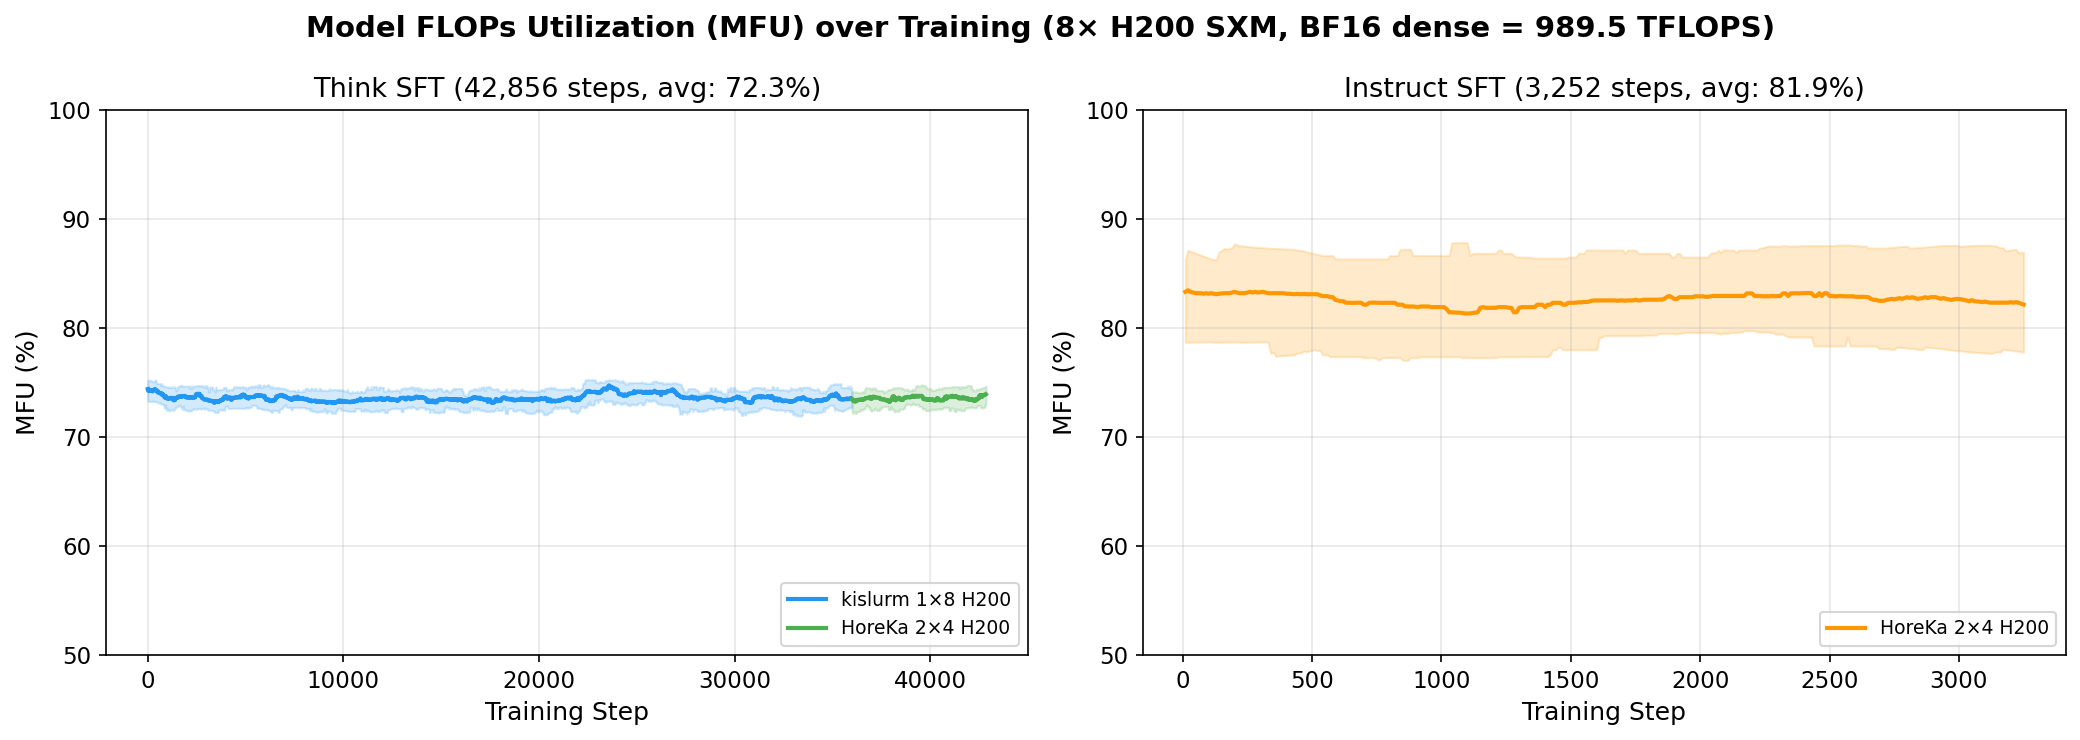
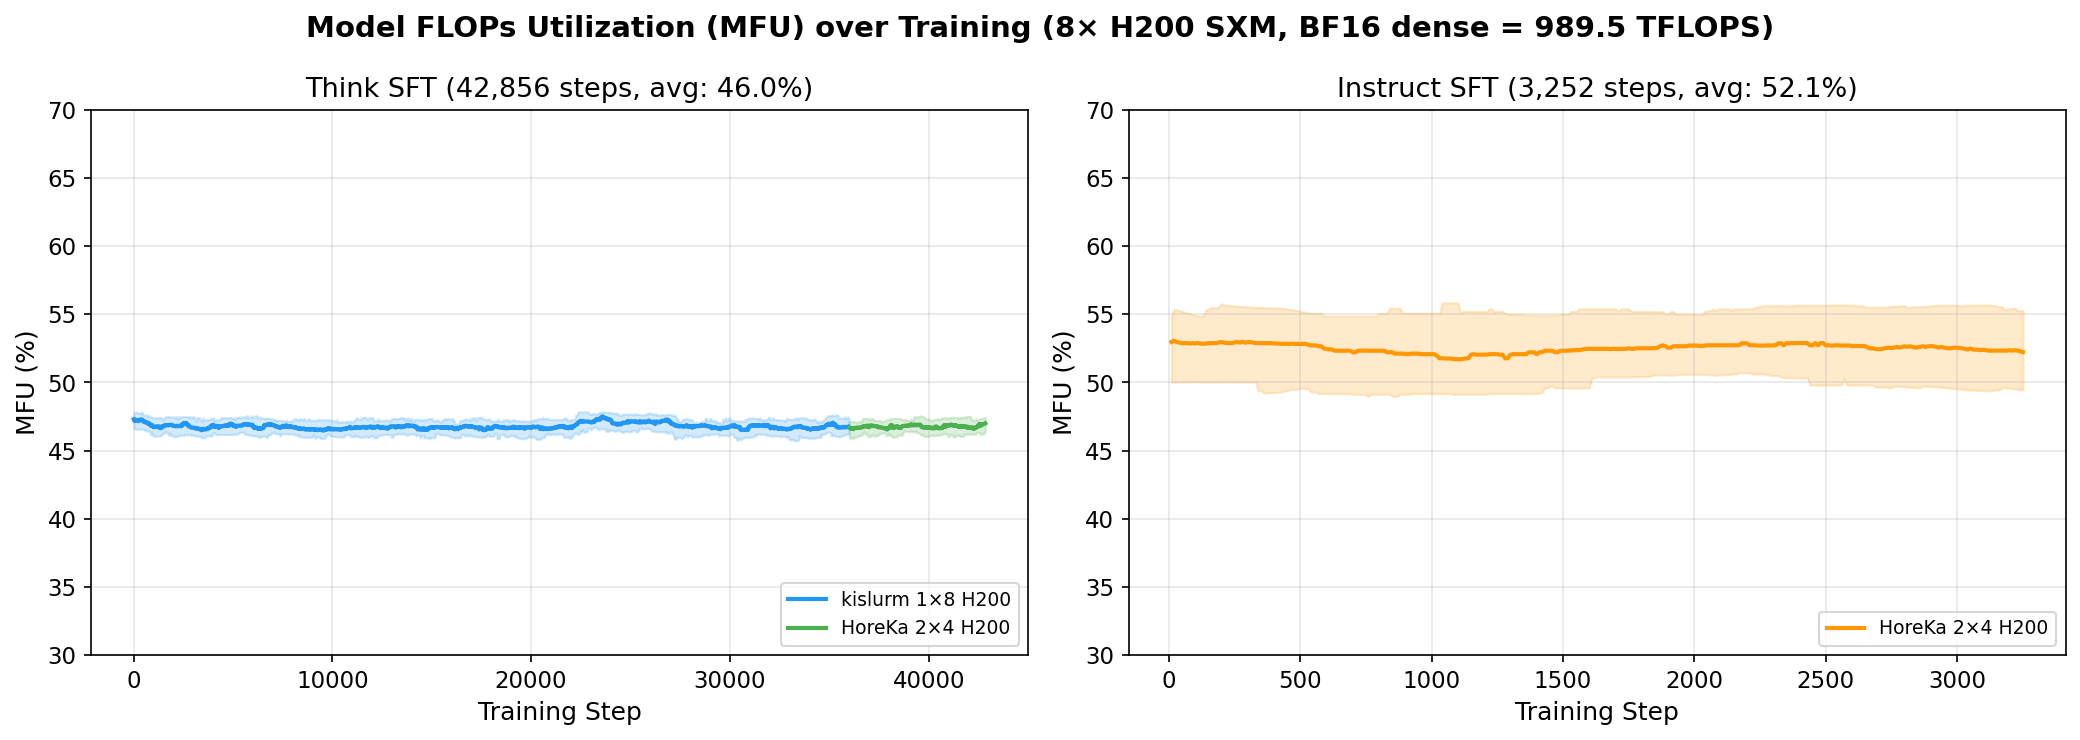
Fix MFU: correct for H200 peak and sliding-window attention
OLMo-core's speed_monitor had two bugs inflating MFU:
1. No H200 case → fell to A100 peak (156 vs 989.5 TFLOPS)
2. num_flops_per_token assumed all 32 layers use full attention,
   but OLMo-3-7B has 24 sliding-window (w=4096) + 8 full layers

Corrected MFU: 46.0% (Think), 52.1% (Instruct) — down from 72.3%/81.9%.
Added full MFU Calculation section to eval_results.md with exact math.

diff --git a/oellm/experiments/baseline_repro/scripts/plot_throughput.py b/oellm/experiments/baseline_repro/scripts/plot_throughput.py
@@ -23,10 +23,30 @@ FIGURES.mkdir(exist_ok=True)
 EVAL_FIGURES = ROOT.parent.parent / "evaluations" / "figures"
 EVAL_FIGURES.mkdir(exist_ok=True)
 
-# MFU correction: OLMo-core used A100 peak (156 TFLOPS) instead of H200 (989.5 TFLOPS)
+# MFU correction: two bugs in OLMo-core's speed_monitor
+#
+# Bug 1: No H200 case → falls to A100 peak (156 TFLOPS) instead of H200 (989.5 TFLOPS)
+# Bug 2: num_flops_per_token assumes all 32 layers use full attention, but OLMo-3-7B
+#         has 24 sliding-window layers (w=4096) + 8 full-attention layers.
+#         This overcounts attention FLOPs: 51.5B vs 17.7B per token.
+#
+# Sources:
+#   - A100 fallback: training log "Device: NVIDIA H200, Device peak FLOPS: 156000000000000"
+#   - H200 BF16 dense: 1979 TFLOPS with sparsity / 2 = 989.5 TFLOPS (NVIDIA spec)
+#   - Layer types: models/baselines/Olmo-3-7B-Think-SFT/config.json (pattern=[4096,4096,4096,-1])
+#   - Non-embedding params: 6,887,575,552 (training log 27036779)
+
 A100_PEAK = 156e12
 H200_PEAK = 989.5e12
-MFU_CORRECTION = A100_PEAK / H200_PEAK
+
+# OLMo-core's uncorrected flops_per_token (all 32 layers full attention at seq_len=32768):
+#   6 * 6,887,575,552 + 12 * 32 * 32 * 128 * 32768 = 92,865,060,864
+# Corrected (24 sliding w=4096, 8 full at seq_len=32768):
+#   6 * 6,887,575,552 + 12*(8*32*128*32768 + 24*32*128*4096) = 59,042,193,408
+OLMO_CORE_FLOPS_PER_TOKEN = 92_865_060_864
+CORRECTED_FLOPS_PER_TOKEN = 59_042_193_408
+
+MFU_CORRECTION = (A100_PEAK / H200_PEAK) * (CORRECTED_FLOPS_PER_TOKEN / OLMO_CORE_FLOPS_PER_TOKEN)
 
 
 def _parse_single_log(text: str) -> dict:
@@ -353,7 +373,7 @@ def main():
     axes[0].set_ylabel('MFU (%)')
     axes[0].legend(loc='lower right')
     axes[0].grid(True, alpha=0.3)
-    axes[0].set_ylim(50, 100)
+    axes[0].set_ylim(30, 70)
 
     # Instruct (right) — all HoreKa (larger window: fewer datapoints than Think)
     steps_f, inst_f = filter_outliers(v2_instruct['steps'], v2_instruct)
@@ -367,7 +387,7 @@ def main():
     axes[1].set_ylabel('MFU (%)')
     axes[1].legend(loc='lower right')
     axes[1].grid(True, alpha=0.3)
-    axes[1].set_ylim(50, 100)
+    axes[1].set_ylim(30, 70)
 
     plt.tight_layout()
     for out_dir in [FIGURES, EVAL_FIGURES]:

diff --git a/oellm/evaluations/eval_results.md b/oellm/evaluations/eval_results.md
@@ -481,7 +481,7 @@ Throughput metrics for the v2 production runs (used for all evaluations above). 
 
 **Metric definitions:**
 - **TPS (Tokens Per Second)**: Number of tokens one GPU processes per second. Total cluster throughput = TPS/device × 8 GPUs.
-- **MFU (Model FLOPs Utilization)**: Percentage of the GPU's theoretical peak compute used for training (forward + backward FLOPs per the PaLM convention). 72% means 72% of the H200's 989.5 TFLOPS (BF16 dense) is doing useful matrix math; the rest is memory transfers, synchronization, and idle time.
+- **MFU (Model FLOPs Utilization)**: Percentage of the GPU's theoretical peak compute used for training (forward + backward FLOPs per the PaLM convention, corrected for sliding-window attention). See [MFU Calculation](#mfu-calculation) below for the full derivation.
 - **Wall-clock**: Total training compute time = `total_steps × avg_step_time`. Excludes SLURM queue waits and restart overhead.
 
 ### Hardware & Configuration
@@ -513,7 +513,7 @@ Throughput metrics for the v2 production runs (used for all evaluations above). 
 | Steps/hour | 212 | 240 |
 | Tokens/GPU-hour | 27.7M | 31.4M |
 | | | |
-| **MFU (H200 BF16 dense)** | **72.3%** | **81.9%** |
+| **MFU (H200 BF16 dense)** | **46.0%** | **52.1%** |
 | Data loading overhead | 0.15% | 0.15% |
 | | | |
 | GPU active memory | 110.5 GiB (79.0%) | 110.5 GiB (79.0%) |
@@ -531,7 +531,41 @@ Throughput metrics for the v2 production runs (used for all evaluations above). 
 
 ### Throughput Plots
 
-![TPS over training steps](https://raw.githubusercontent.com/ferreirafabio/open-instruct/main/oellm/evaluations/figures/throughput_tps.png?v=2)
+![TPS over training steps](https://raw.githubusercontent.com/ferreirafabio/open-instruct/main/oellm/evaluations/figures/throughput_tps.png?v=3)
 
-![MFU over training steps](https://raw.githubusercontent.com/ferreirafabio/open-instruct/main/oellm/evaluations/figures/throughput_mfu.png?v=2)
+![MFU over training steps](https://raw.githubusercontent.com/ferreirafabio/open-instruct/main/oellm/evaluations/figures/throughput_mfu.png?v=3)
+
+### MFU Calculation
+
+The MFU values are corrected from OLMo-core's wandb output, which has two bugs:
+
+**Bug 1 — Wrong GPU peak:** OLMo-core's `speed_monitor.py` has no `"H200"` case. Since `"NVIDIA H200"` doesn't match `"H100"`, it falls to the A100 default: `312e12 × 0.5 = 156 TFLOPS`. The correct H200 SXM BF16 dense peak is `1979 / 2 = 989.5 TFLOPS` ([NVIDIA spec](https://www.nvidia.com/en-us/data-center/h200/), [Megatron-LM #1565](https://github.com/NVIDIA/Megatron-LM/issues/1565)).
+
+**Bug 2 — Sliding-window attention not accounted for:** OLMo-core's `num_flops_per_token` formula treats all 32 layers as full attention. But OLMo-3-7B uses a `[sliding, sliding, sliding, full]` repeating pattern = **24 sliding-window layers (w=4,096) + 8 full-attention layers** (from `config.json` `layer_types`).
+
+**Corrected FLOPs per token:**
+
+```
+MFU = flops_per_token × TPS_per_device / peak_FLOPS_per_device          (PaLM, Appendix B)
+
+flops_per_token = 6 × N_non_embedding + attention_flops
+
+N_non_embedding   = 6,887,575,552                                       (training log 27036779)
+peak_FLOPS        = 989.5 × 10¹²                                       (H200 SXM BF16 dense)
+
+Dense matmul term:
+  6 × 6,887,575,552 = 41,325,453,312
+
+Attention term (corrected for sliding window):
+  Full-attention layers (8):   12 × 8  × 32 × 128 × 32,768 = 12,884,901,888
+  Sliding-window layers (24):  12 × 24 × 32 × 128 × 4,096  =  4,831,838,208
+  Total attention:                                           = 17,716,740,096
+
+Total flops_per_token = 41,325,453,312 + 17,716,740,096 = 59,042,193,408
+
+Think MFU    = 59,042,193,408 × 7,704  / 989.5 × 10¹² = 46.0%
+Instruct MFU = 59,042,193,408 × 8,731  / 989.5 × 10¹² = 52.1%
+```
+
+For comparison, OLMo-core's uncorrected formula (all full attention) gives `flops_per_token = 92,865,060,864`, which combined with the wrong A100 peak yields wandb values of ~460% — correcting only the peak gives 72%/82%, but correcting both gives the accurate **46%/52%**. Plotting code: [`plot_throughput.py`](../experiments/baseline_repro/scripts/plot_throughput.py).
 
